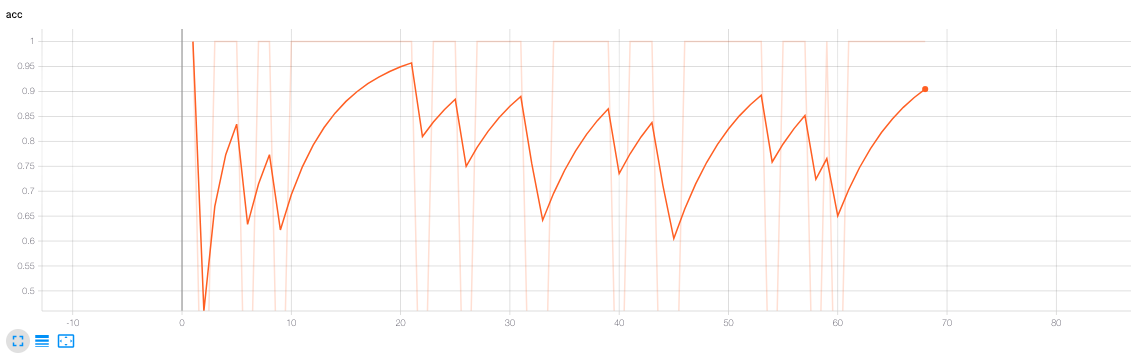
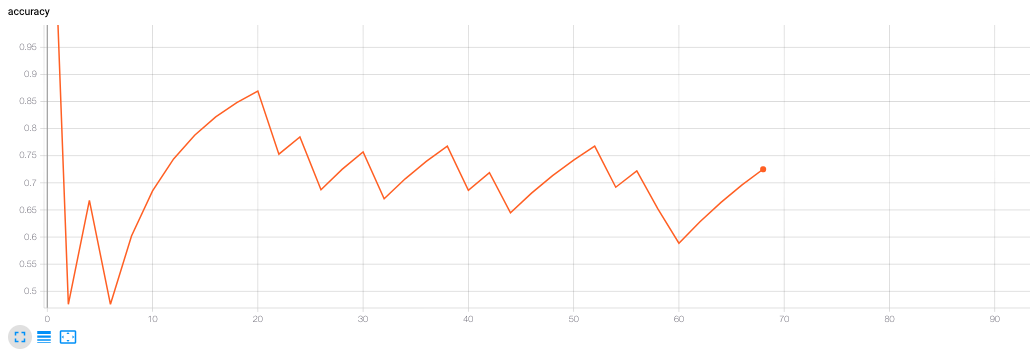
Added new graphs for 138 episodes

diff --git a/QSettlers/index.md b/QSettlers/index.md
@@ -112,7 +112,7 @@ With a neural network it's often inefficient to train on single data points and 
 
 This database of short-term memory is called **Replay Memory**. Now, every time we want to update our weights we randomly select a number of experiences from our replay memory and use them as a batch to train our model. The replay memory size as well as training batch size are two parameters that need to be optimized, and for this project we use the following values: 
 
-| <a href="https://www.codecogs.com/eqnedit.php?latex=\begin{center}&space;Replay\&space;Memory\&space;Size&space;=&space;1&space;\end{center}&space;Training\&space;Batch\&space;Size&space;=&space;1" target="_blank"><img src="https://latex.codecogs.com/gif.latex?\begin{center}&space;Replay\&space;Memory\&space;Size&space;=&space;1&space;\end{center}&space;Training\&space;Batch\&space;Size&space;=&space;1" title="\begin{center} Replay\ Memory\ Size = 1 \end{center} Training\ Batch\ Size = 1" /></a>| 
+| <a href="https://www.codecogs.com/eqnedit.php?latex=\begin{center}&space;Replay\&space;Memory\&space;Size&space;=&space;100&space;\end{center}&space;Training\&space;Batch\&space;Size&space;=&space;16" target="_blank"><img src="https://latex.codecogs.com/gif.latex?\begin{center}&space;Replay\&space;Memory\&space;Size&space;=&space;100&space;\end{center}&space;Training\&space;Batch\&space;Size&space;=&space;16" title="\begin{center} Replay\ Memory\ Size = 100 \end{center} Training\ Batch\ Size = 16" /></a>| 
 |:--:| 
 | |
 
@@ -174,34 +174,47 @@ With some great features already existing inside JSettlers and creating some add
 7. Save model weights and performance logs.
 
 
-The training process as a whole takes around a day to run to completion, averaging about 25 games per hour!
+The training process for 138 games took around 9 hours and 15 minutes to run on a standard CPU, averaging about 15 games per hour. 
 
 
 ## Results
 
-To do! Show number of total placings as well as image of Tensorboard rewards during training.
-
 | ![Training loss](assets/img/loss.png){:height="400px" width="1200px"} | 
 |:--:| 
-| *Training loss vs Episodes* |
+| *Training loss vs Episodes - 68 episodes* |
 
+| ![Training loss](assets/img/loss-138.png){:height="400px" width="1200px"} | 
+|:--:| 
+| *Training loss vs Episodes - 138 episodes* |
 ---
 
 | ![Accuracy](assets/img/acc.png){:height="450px" width="1200px"} | 
 |:--:| 
-| *Model Accuracy vs Episodes* |
+| *Model Accuracy vs Episodes - 68 episodes* |
+
+| ![Accuracy](assets/img/acc-138.png){:height="450px" width="1200px"} | 
+|:--:| 
+| *Model Accuracy vs Episodes - 138 episodes* |
 
 ---
 
 | ![Rewards](assets/img/reward_avg.png){:height="450px" width="1200px"} | 
 |:--:| 
-| *Average Rewards vs Episodes* |
+| *Average Rewards vs Episodes - 68 episodes* |
+
+| ![Rewards](assets/img/reward_avg-138.png){:height="450px" width="1200px"} | 
+|:--:| 
+| *Average Rewards vs Episodes - 138 episodes* |
 
 ---
 
 | ![Epsilon](assets/img/epsilon.png){:height="450px" width="1200px"} | 
 |:--:| 
-| *Epsilon vs Episodes* |
+| *Epsilon vs Episodes - 68 episodes* |
+
+| ![Epsilon](assets/img/epsilon-138.png){:height="450px" width="1200px"} | 
+|:--:| 
+| *Epsilon vs Episodes - 138 episodes* |
 
 ## Future Possibilites
 
